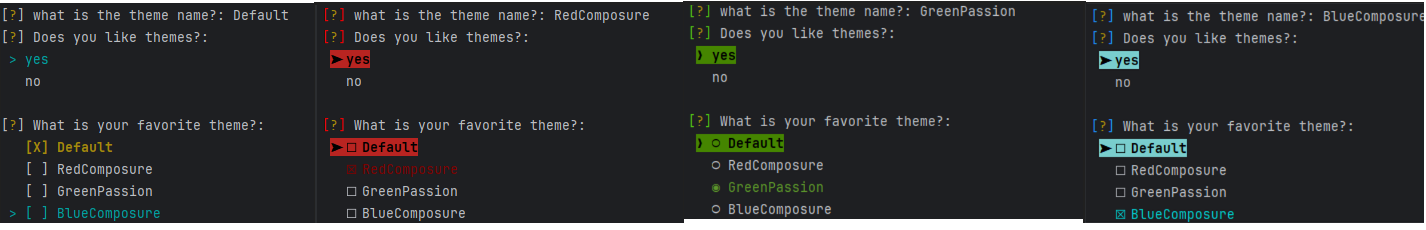
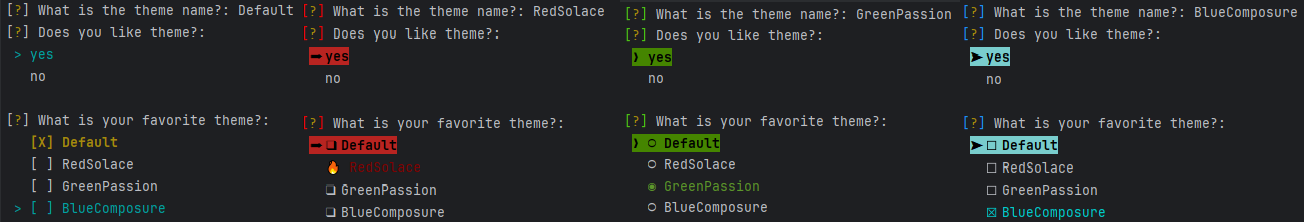
Apply review suggestions

diff --git a/src/inquirer/themes.py b/src/inquirer/themes.py
@@ -105,13 +105,13 @@ class RedSolace(Default):
         super().__init__()
         self.Question.brackets_color = term.red2
         self.Question.default_color = term.firebrick1
-        self.Checkbox.selection_icon = "➤"
+        self.Checkbox.selection_icon = "➠"
         self.Checkbox.selection_color = term.bold_black_on_bright_red
-        self.Checkbox.selected_icon = "☒"
+        self.Checkbox.selected_icon = "🔥"
         self.Checkbox.selected_color = term.webmaroon
-        self.Checkbox.unselected_icon = "☐"
+        self.Checkbox.unselected_icon = "❑"
         self.List.selection_color = term.bold_black_on_bright_red
-        self.List.selection_cursor = "➤"
+        self.List.selection_cursor = "➠"
 
 
 class GreenPassion(Default):

diff --git a/tests/unit/test_themes.py b/tests/unit/test_themes.py
@@ -87,7 +87,7 @@ def test_themes_blue_composure():
 
 
 def test_themes_red_composure():
-    t = themes.RedComposure()
+    t = themes.RedSolace()
 
     assert hasattr(t, "Question")
     assert hasattr(t.Question, "mark_color")
